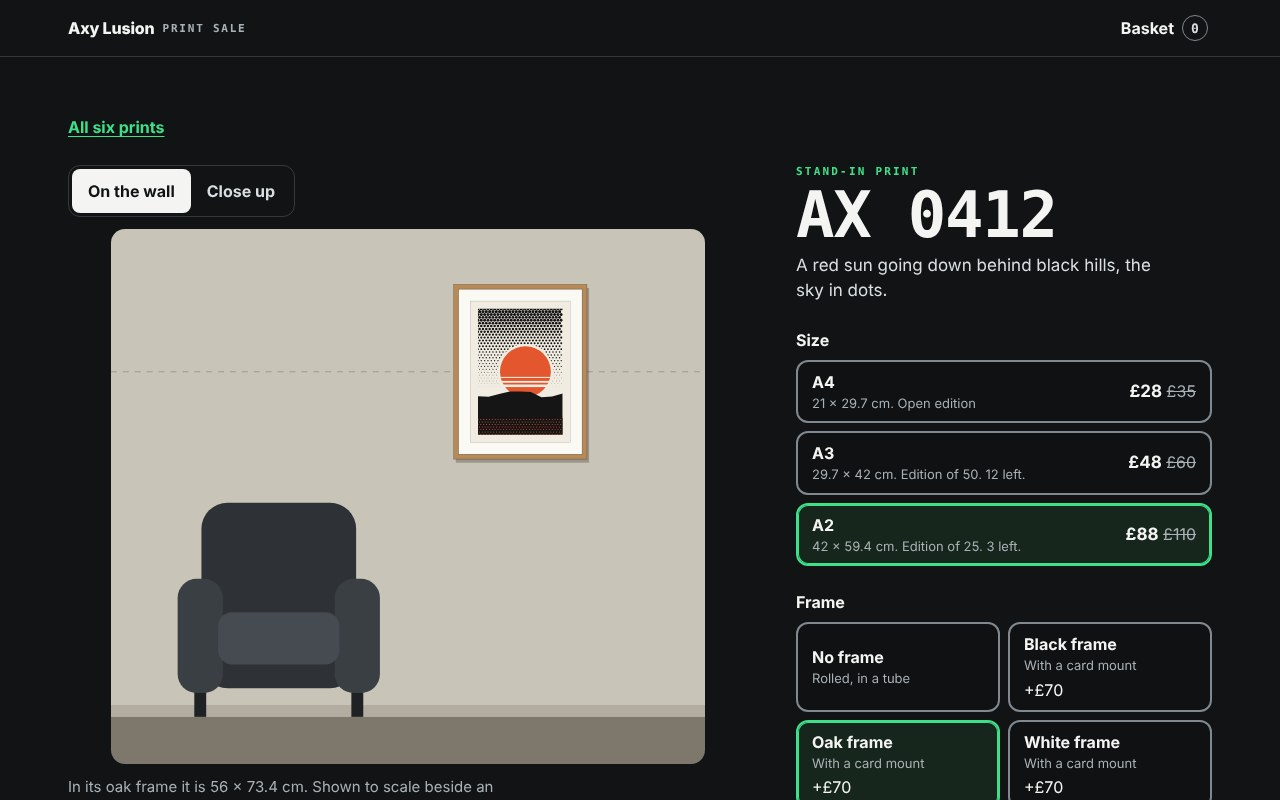
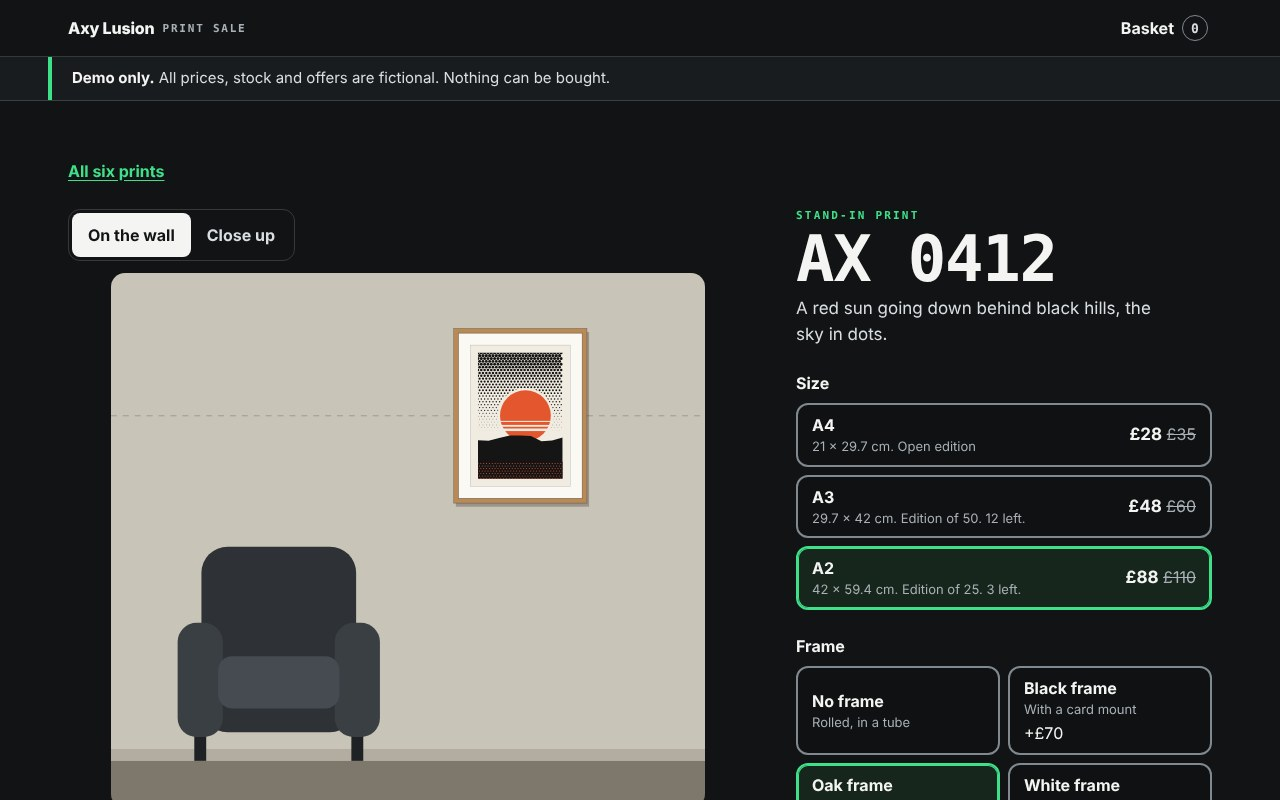
Print shop demo: a "Demo only" notice on every view, and keyboard focus kept clear of the pinned wall
Acts on the outside review of PR 144.

- One notice under the bar on every view: all prices, stock and offers
  are fictional and nothing can be bought. A line by Add to basket and
  by Place mock order says the same.
- A view opened by its address starts at the top of the page, so the
  notice is in sight (a direct link to the basket at large text used to
  open part way down).
- On a phone-sized window a control reached by Tab no longer stops
  behind the pinned wall.
- README status says that merging makes the page reachable.
- Checks added to the browser check; pictures retaken.

Claude-Session: https://claude.ai/code/session_013B6jEDQfd86RBiChYmYX6U

diff --git a/demos/print-sale/index.html b/demos/print-sale/index.html
@@ -34,6 +34,9 @@
   main { max-width:74rem; margin:0 auto; padding:clamp(1.5rem, 4vw, 3rem) max(20px, env(safe-area-inset-right)) 4rem max(20px, env(safe-area-inset-left)); }
   h1 { margin:.75rem 0 1rem; font-size:clamp(2rem, 12vw, 6.5rem); overflow-wrap:anywhere; line-height:.9; font-weight:800; letter-spacing:-.045em; text-wrap:balance; }
   .lede { margin:0; max-width:34ch; font-size:1.1875rem; color:var(--soft); }
+  .notice { margin:0; border-bottom:1px solid var(--line); background:var(--card); color:var(--soft); font-size:.9375rem; } .notice span { display:block; max-width:74rem; margin:0 auto; padding:.625rem max(20px, env(safe-area-inset-right)) .625rem max(20px, env(safe-area-inset-left)); border-left:4px solid var(--accent); } .notice strong { color:var(--ink); }
+  .view { scroll-margin-top:100000px; } /* a view opened by its address starts at the top of the page, with the notice in sight: the browser would otherwise put the view itself at the top of the window and scroll the notice away */
+  .fict { margin:.75rem 0 .5rem; font-size:.875rem; color:var(--soft); }
   .demo { margin:1.5rem 0 0; max-width:44ch; padding:.75rem .875rem; border-radius:.75rem; border:1px solid var(--line); border-left:4px solid var(--accent); font-size:.875rem; color:var(--soft); } .demo strong { color:var(--ink); }
   .hero { display:grid; grid-template-columns:minmax(0, 1fr) minmax(0, 26rem); gap:1.5rem 3rem; align-items:end; margin-bottom:clamp(2rem, 5vw, 3.5rem); } .hero .demo { margin:0; }
   .off { display:inline-block; margin:0 0 0 .25rem; padding:.125rem .5rem; border-radius:.375rem; background:var(--accent); color:var(--accent-ink); font-weight:800; white-space:nowrap; }
@@ -87,9 +90,11 @@
 
   @media (max-width:60em) { .hero { grid-template-columns:minmax(0, 1fr); } .hero .demo { max-width:44ch; } .detail, .bask { grid-template-columns:minmax(0, 1fr); } .facts { grid-template-columns:minmax(0, 1fr); }
     /* One column: the wall stays at the top of the window while you choose a size and a frame, so that you see it change. */
-    .detail { gap:1rem; } .stage { display:contents; } .stage .seg { justify-self:start; margin:0; } .scene { position:sticky; top:var(--top); z-index:2; width:100%; max-width:none; padding:.5rem 0; background:var(--bg); } .scene svg { width:auto; max-width:100%; height:40vh; min-height:9rem; margin:0 auto; } .hangs { margin:0; } }
+    .detail { gap:1rem; } .stage { display:contents; } .stage .seg { justify-self:start; margin:0; } .scene { position:sticky; top:var(--top); z-index:2; width:100%; max-width:none; padding:.5rem 0; background:var(--bg); }
+    /* The wall is pinned over the page, so a control reached by Tab must stop below it, not behind it. The browser is told how much of the window's top is taken: the bar, the wall and a little air. */
+    html:has(#print:not([hidden])) { scroll-padding-top:calc(var(--top) + max(40vh, 9rem) + 1.5rem); } .scene svg { width:auto; max-width:100%; height:40vh; min-height:9rem; margin:0 auto; } .hangs { margin:0; } }
   /* A phone on its side: the wall beside the choices. */
-  @media (max-width:60em) and (max-height:30em) and (orientation:landscape) { .detail { grid-template-columns:minmax(0, 1fr) minmax(0, 1fr); column-gap:1.5rem; } .stage { display:block; position:sticky; top:calc(var(--top) + .5rem); } .scene { position:static; padding:0; } .scene svg { height:calc(100vh - var(--top) - 5.5rem); min-height:8rem; } .stage .seg { margin-bottom:.5rem; } .seg button { min-height:2.75rem; } .hangs { position:absolute; width:1px; height:1px; overflow:hidden; clip-path:inset(50%); } }
+  @media (max-width:60em) and (max-height:30em) and (orientation:landscape) { html:has(#print:not([hidden])) { scroll-padding-top:calc(var(--top) + .5rem); } .detail { grid-template-columns:minmax(0, 1fr) minmax(0, 1fr); column-gap:1.5rem; } .stage { display:block; position:sticky; top:calc(var(--top) + .5rem); } .scene { position:static; padding:0; } .scene svg { height:calc(100vh - var(--top) - 5.5rem); min-height:8rem; } .stage .seg { margin-bottom:.5rem; } .seg button { min-height:2.75rem; } .hangs { position:absolute; width:1px; height:1px; overflow:hidden; clip-path:inset(50%); } }
   @media (max-width:48em) { .grid { grid-template-columns:repeat(2, minmax(0, 1fr)); gap:1.5rem 1rem; } .hung { padding:9% 12%; } }
   @media (max-width:30em) { .tiles.two { grid-template-columns:minmax(0, 1fr); } #lines li { grid-template-columns:3.25rem minmax(0, 1fr); } #lines .amount { grid-column:2; text-align:left; } #lines .ctl { grid-column:1 / -1; } .stepper { grid-template-columns:2.75rem minmax(2rem, auto) 2.75rem; } }
   @media (max-width:21em) { table { table-layout:fixed; } th, td { overflow-wrap:anywhere; } .grid { grid-template-columns:minmax(0, 1fr); } .brand span { display:none; } }
@@ -101,6 +106,7 @@
   <a class="brand" href="#prints">Axy Lusion<span>Print sale</span></a>
   <a class="bag" id="bag" href="#basket"><span>Basket<span class="sr" id="bag-words">: empty</span></span><span class="n none" id="bag-n" aria-hidden="true">0</span></a>
 </div></header>
+<p class="notice" id="notice"><span><strong>Demo only.</strong> All prices, stock and offers are fictional. Nothing can be bought.</span></p>
 
 <main id="main">
   <section id="prints" class="view">
@@ -146,7 +152,8 @@
         <div class="qty-row"><span class="lab" id="q-label">How many</span><div class="stepper" role="group" aria-labelledby="q-label"><button type="button" id="q-less" aria-label="One fewer">&minus;</button><span class="q" id="q-n">1</span><button type="button" id="q-more" aria-label="One more">+</button></div></div>
         <p class="sum" id="p-sum"></p>
         <p class="have" id="p-have" hidden></p>
-        <button class="btn wide" id="add" type="submit">Add to basket</button>
+        <p class="fict" id="p-fict">Demo only: this price, the stock and the sale are fictional.</p>
+        <button class="btn wide" id="add" type="submit" aria-describedby="p-fict">Add to basket</button>
         <p class="said" id="p-said" role="status"></p>
         <ul class="small"><li>In a real shop, rolled prints would be sent in a tube and framed ones in a box, ready to hang.</li><li>Numbered sizes would be signed and numbered on the front. A4 is an open edition.</li><li>This is a mock: nothing here can be bought.</li></ul>
       </form>
@@ -161,7 +168,7 @@
     <p class="undo" id="undo" hidden><span id="undo-words"></span><button type="button" class="link" id="undo-go">Put it back</button></p>
     <div class="bask" id="b-full" hidden>
       <ul id="lines"></ul>
-      <div class="sumbox"><dl id="sums"></dl><p class="note" id="b-post"></p><button type="button" class="btn wide" id="order">Place mock order</button><p class="note">This is a mock: no payment is asked for or taken, and nothing is ordered.</p></div>
+      <div class="sumbox"><dl id="sums"></dl><p class="note" id="b-post"></p><p class="fict" id="b-fict">Demo only: these prices and the sale are fictional.</p><button type="button" class="btn wide" id="order" aria-describedby="b-fict">Place mock order</button><p class="note">This is a mock: no payment is asked for or taken, and nothing is ordered.</p></div>
     </div>
   </section>
 

diff --git a/demos/print-sale/REVIEW.md b/demos/print-sale/REVIEW.md
@@ -79,6 +79,20 @@ A second pass by a separate Claude agent (Opus), read-only, given the brief and 
 | 17 | A print buyer would look for the paper and a line about VAT | The page says a real shop would give both, and that this one has neither | by reading |
 | 18 | The pictures: two were weak (a target with an arbitrary bar; buildings like a wireframe) | Both redrawn: a drop about to land in rings, and a solid town against a dotted sky. They remain stand-ins | by looking; not judged by a person |
 
+## Outside review
+
+A second, outside review was posted on the pull request on 17 November 2026: ChatGPT in chat mode at Pro, driven by another Claude session at Kol's request. It covered this demo with the enquiry form, read the code and pictures, and did not run the page. It scored the pair 7 out of 10 and said HOLD. It found no payment, no tracking and no storage.
+
+| Finding | What was done | Held by |
+|---|---|---|
+| The notice that prices, stock and the sale are made up sat only on the first view. A print opened by its own address showed a sale price and "3 left" with only a small "Stand-in print" label | Every view now carries one notice under the bar: "Demo only. All prices, stock and offers are fictional. Nothing can be bought." A line by Add to basket and by Place mock order says the same, and each button is tied to its line for a screen reader | browser check: the prints, a print by its address, the basket, an empty basket by its address and the end, at 1280, on a 320 phone, at large text and with scripts off. The notice must be under the bar, in the window on arrival, uncovered, and above the button that would buy |
+| The sticky picture on a phone needs a full keyboard check that it never covers a focused control | The suspicion was right. Walking a print by Tab on a phone-sized window, the chosen size, the count buttons and Add to basket could stop behind the pinned wall. The browser is now told how much of the window the bar and the wall take, so a focused control stops below them | browser check: Tab and Shift and Tab through a print at 390x800, 320x568, 390x500 and 740x360. Before the fix a probe found controls behind the wall at the first three sizes |
+| The demo's own tests do not run in the repo's CI | Not done here: CI is shared by the whole site, and changing it is outside this demo's folder | |
+| No real phone, Safari or Firefox, screen reader or reference comparison | Still true. Listed under Not verified | |
+| "Unlisted" pages become reachable once merged, because the site deploys its main branch | The README now says so | |
+
+One fault turned up while writing the check, and it was not in the outside review. At large text, a link straight to the basket opened part way down the page: the browser put the basket itself at the top of the window, and the bar and the notice were scrolled out of sight. A view opened by its address now starts at the top of the page.
+
 ## Provenance
 
 - No library, no font, picture or data file. The six pictures are drawn by `js/art.js`.

diff --git a/demos/print-sale/README.md b/demos/print-sale/README.md
@@ -65,4 +65,4 @@ The second and third need the site's development packages (Playwright and axe-co
 
 ## Status
 
-Unlisted. The page carries `noindex`, and it is not in the gallery or the sitemap. Nothing here is published.
+Unlisted draft. The page carries `noindex`, and it is not in the gallery or the sitemap. Nothing here is published. The site deploys its main branch, so merging this would put the page at /demos/print-sale/, where anyone with the address could open it. Every view says, under the bar, that it is a demo, that all prices, stock and offers are fictional and that nothing can be bought.
